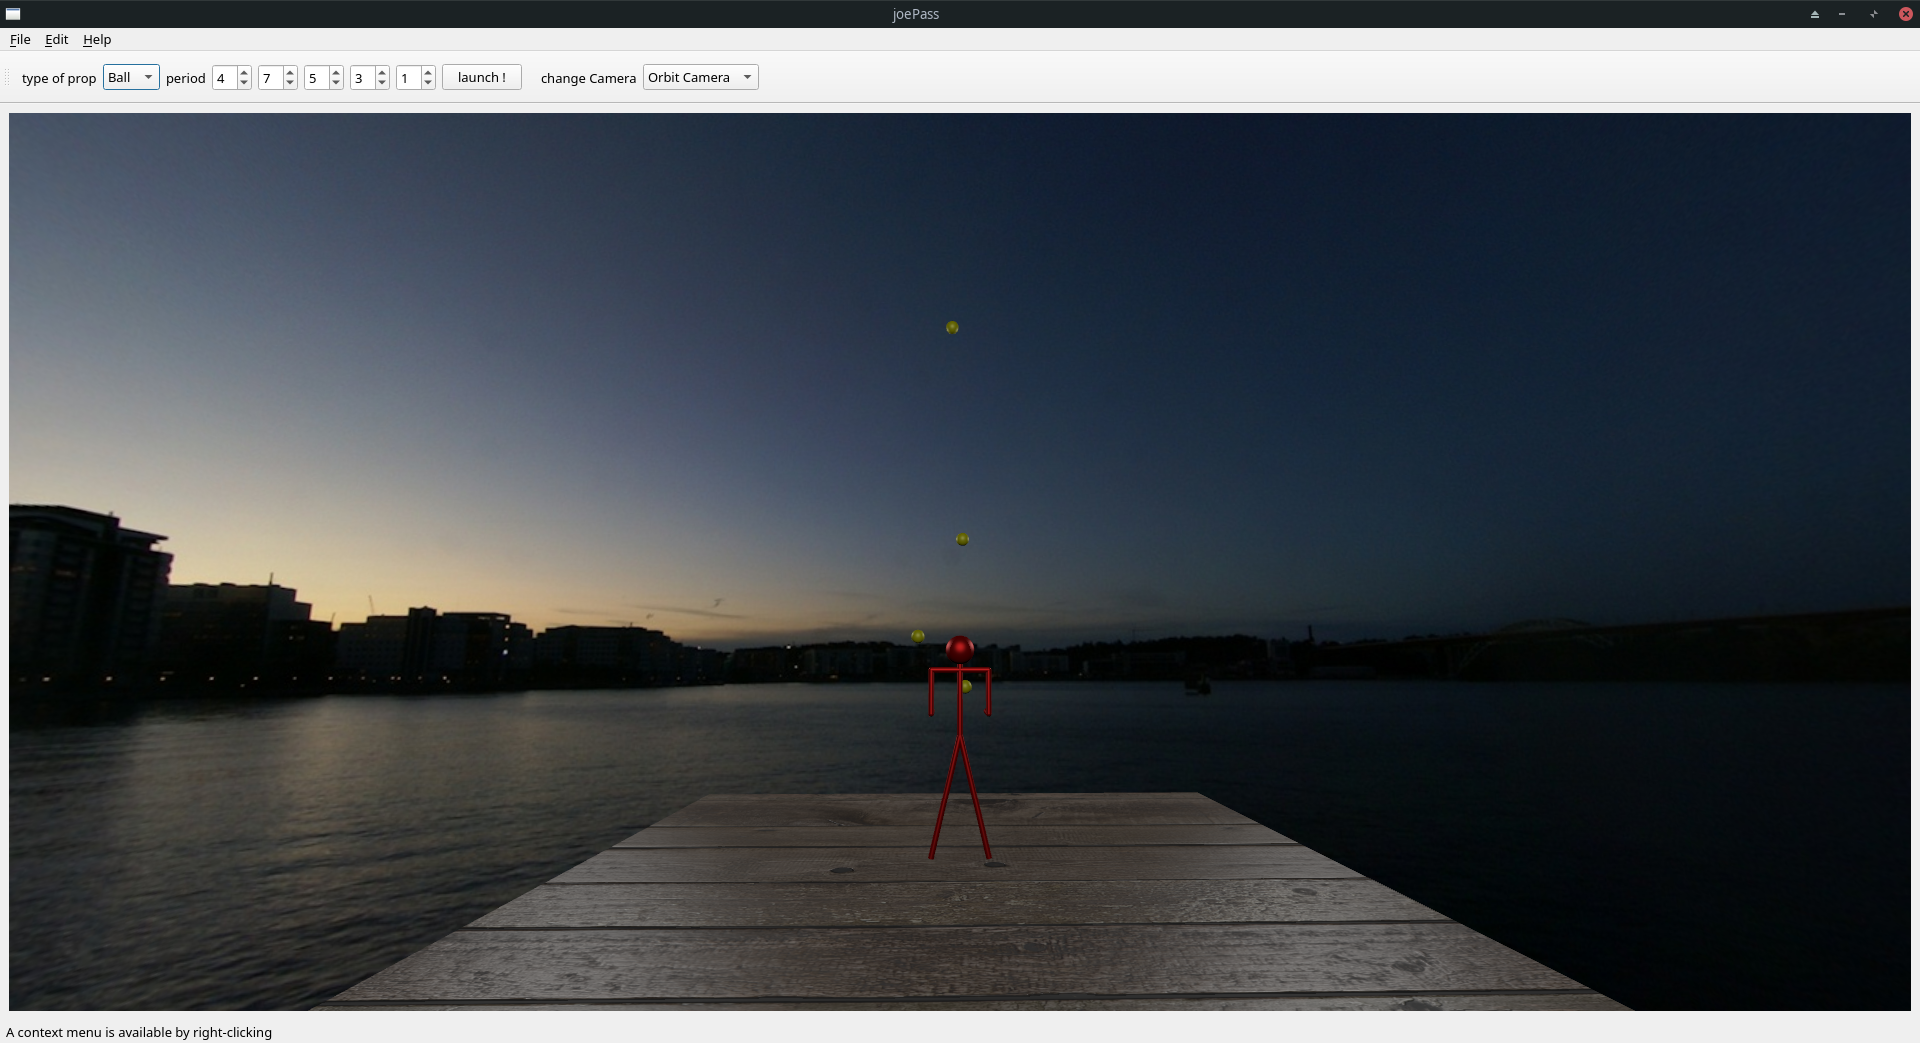
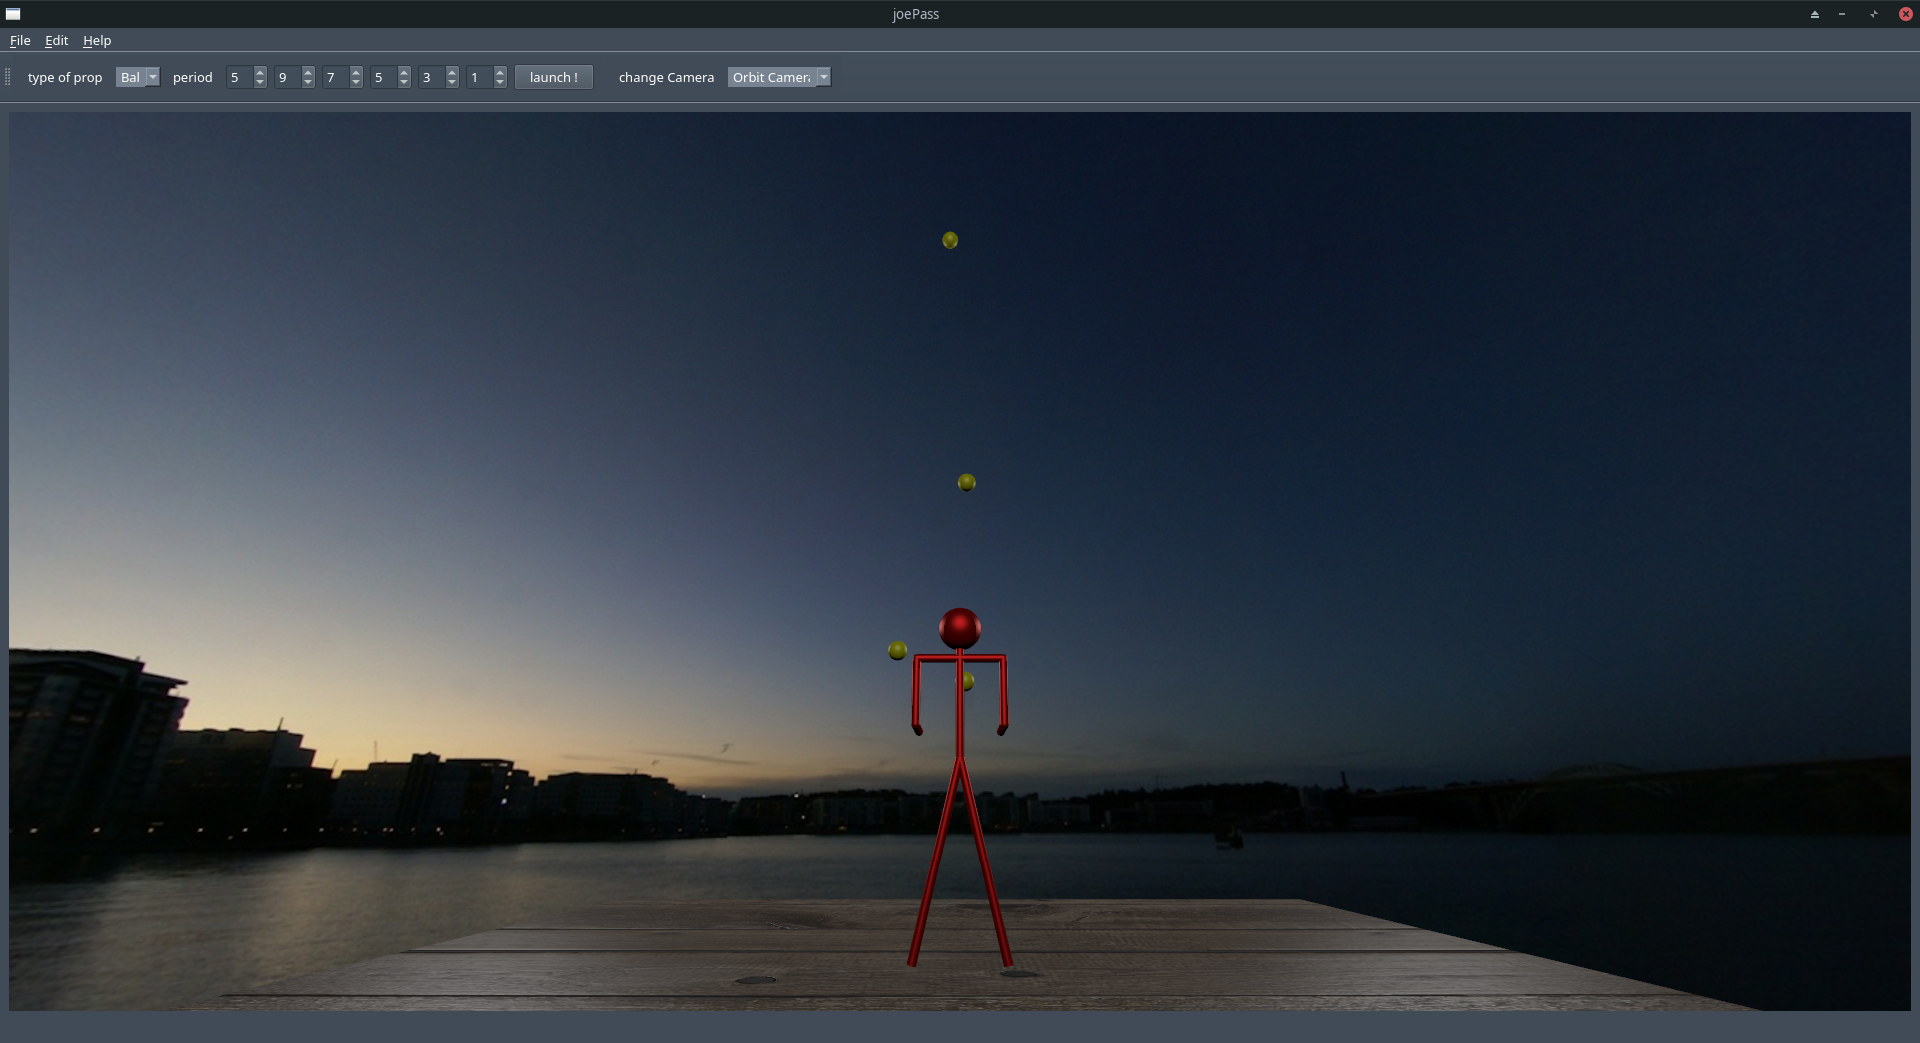
set pbr for all objects and add stylesheet

diff --git a/src/jugglingring.cpp b/src/jugglingring.cpp
@@ -20,41 +20,23 @@
 
 JugglingRing::JugglingRing(QEntity *aRootEntity,
                            QTorusMesh *torusMesh,
-                           QEffect *aEffect,
                            QColor aColor)
-  :ringMaterial(new QMaterial()),
-    diffuseColorParameter(new QParameter()),
-    shininessParameter(new QParameter()),
+  : ringMetalRoughMaterial(new QMetalRoughMaterial()),
     ringTransform(new Qt3DCore::QTransform()),
     color(aColor)
 
 {
   ringTransform->setScale3D(QVector3D(RING_SCALE_X, RING_SCALE_Y, RING_SCALE_Z));
 
-  diffuseColorParameter->setName(QLatin1String(DIFFUSE_COLOR));
-  shininessParameter->setName(QLatin1String(SHININESS));
-  ringMaterial->addParameter(diffuseColorParameter);
-  diffuseColorParameter->setValue(QVariant::fromValue(color));
-  ringMaterial->addParameter(shininessParameter);
-  shininessParameter->setValue(QVariant::fromValue(RING_SHININESS));
-  ringMaterial->setEffect(aEffect);
+  ringMetalRoughMaterial->setBaseColor(color);
+  ringMetalRoughMaterial->setMetalness(RING_METALNESS);
+  ringMetalRoughMaterial->setRoughness(RING_ROUGHNESS);
+
 
   QEntity::setParent(aRootEntity);
   addComponent(torusMesh);
   addComponent(ringTransform);
-  addComponent(ringMaterial);
+  addComponent(ringMetalRoughMaterial);
   setEnabled(enabled);
-
-  //animation test
-//  QAnimationClip animClip;
-//  QAnimationClipData clipData;
-//  QChannelMapper channelMapper;
-//  QChannelMapping channelMapping;
-
-//  QClipAnimator clipAnimator;
-//  clipAnimator.setClip(&animClip);
-//  animClip.setClipData(clipData);
-//  addComponent(&clipAnimator);
-
 
 }

diff --git a/src/pirouette.cpp b/src/pirouette.cpp
@@ -19,29 +19,22 @@
 
 Pirouette::Pirouette(QEntity *aRootEntity,
                      QMesh *aPirouetteMesh,
-                     QEffect *aEffect,
                      QColor aColor)
-  :pirouetteMaterial(new QMaterial()),
-    diffuseColorParameter(new QParameter()),
-    shininessParameter(new QParameter()),
+  : clubMetalRoughMaterial(new QMetalRoughMaterial()),
     pirouetteTransform(new Qt3DCore::QTransform()),
     color(aColor)
 {
   pirouetteTransform->setScale(CLUB_SCALE);
 
-  diffuseColorParameter->setName(QLatin1String(DIFFUSE_COLOR));
-  shininessParameter->setName(QLatin1String(SHININESS));
-  pirouetteMaterial->addParameter(diffuseColorParameter);
-  diffuseColorParameter->setValue(QVariant::fromValue(color));
-  pirouetteMaterial->addParameter(shininessParameter);
-  shininessParameter->setValue(QVariant::fromValue(CLUB_SHININESS));
-  pirouetteMaterial->setEffect(aEffect);
+  clubMetalRoughMaterial->setBaseColor(color);
+  clubMetalRoughMaterial->setMetalness(BALL_METALNESS);
+  clubMetalRoughMaterial->setRoughness(BALL_ROUGHNESS);
 
 
   QEntity::setParent(aRootEntity);
   addComponent(pirouetteTransform);
   addComponent(aPirouetteMesh);
-  addComponent(pirouetteMaterial);
+  addComponent(clubMetalRoughMaterial);
   setEnabled(enabled);
 }
 

diff --git a/src/my3dwindow.cpp b/src/my3dwindow.cpp
@@ -69,8 +69,8 @@ void My3DWindow::createGround()
 void My3DWindow::setGlobalObject()
 {
   // global material
-  material = new QDiffuseSpecularMaterial(rootEntity);
-  effect = material->effect();
+//  material = new QDiffuseSpecularMaterial(rootEntity);
+//  effect = material->effect();
 
   // create one pointlight for 3 sources
   pointLight->setColor(QColor(QRgb(LIGHT_COLOR)));
@@ -158,7 +158,7 @@ void My3DWindow::createLighting()
 
 void My3DWindow::createPirouette(QColor aColor)
 {
-  auto pirouette = new Pirouette(rootEntity, pirouetteMesh, effect, aColor);
+  auto pirouette = new Pirouette(rootEntity, pirouetteMesh, aColor);
   vPirouette.append(pirouette);
 }
 
@@ -170,7 +170,7 @@ void My3DWindow::createBall(QColor aColor)
 
 void My3DWindow::createRing(QColor aColor)
 {
-  auto ring = new JugglingRing(rootEntity, torusMesh, effect, aColor);
+  auto ring = new JugglingRing(rootEntity, torusMesh, aColor);
   vRing.append(ring);
 }
 

diff --git a/src/jugglingball.cpp b/src/jugglingball.cpp
@@ -24,16 +24,16 @@ JugglingBall::JugglingBall(QEntity *aRootEntity,
     sphereTransform(new Qt3DCore::QTransform()),
     color(aColor)
 {
-    sphereTransform->setScale(BALL_SCALE);
+  sphereTransform->setScale(BALL_SCALE);
 
-    ballMetalRoughMaterial->setBaseColor(color);
-    ballMetalRoughMaterial->setMetalness(BALL_METALNESS);
-    ballMetalRoughMaterial->setRoughness(BALL_ROUGHNESS);
+  ballMetalRoughMaterial->setBaseColor(color);
+  ballMetalRoughMaterial->setMetalness(BALL_METALNESS);
+  ballMetalRoughMaterial->setRoughness(BALL_ROUGHNESS);
 
-    QEntity::setParent(aRootEntity);
-    addComponent(aSphereMesh);
-    addComponent(ballMetalRoughMaterial);
-    addComponent(sphereTransform);
+  QEntity::setParent(aRootEntity);
+  addComponent(aSphereMesh);
+  addComponent(ballMetalRoughMaterial);
+  addComponent(sphereTransform);
 
 }
 

diff --git a/src/jugglingring.h b/src/jugglingring.h
@@ -37,13 +37,14 @@ class JugglingRing: public QEntity
 public:
   JugglingRing(QEntity *aRootEntity,
                QTorusMesh *torusMesh,
-               QEffect *aEffect,
+//               QEffect *aEffect,
                QColor aColor);
 
 private:
-  QMaterial *ringMaterial;
-  QParameter *diffuseColorParameter;
-  QParameter *shininessParameter;
+//  QMaterial *ringMaterial;
+//  QParameter *diffuseColorParameter;
+//  QParameter *shininessParameter;
+  QMetalRoughMaterial *ringMetalRoughMaterial;
   Qt3DCore::QTransform *ringTransform;
 
   QColor color;

diff --git a/src/main.cpp b/src/main.cpp
@@ -38,6 +38,12 @@ int main(int argc, char *argv[])
   parser.addPositionalArgument("file", "The file to open.");
   parser.process(app);
 
+  QFile file(":/qss/res/qss/MyStyleSheet.qss");
+      file.open(QFile::ReadOnly);
+      QString styleSheet = QString::fromLatin1(file.readAll());
+
+      app.setStyleSheet(styleSheet);
+
   MyMainWindow mainWin;
 //  if (!parser.positionalArguments().isEmpty())
 //      mainWin.loadFile(parser.positionalArguments().first());

diff --git a/src/pirouette.h b/src/pirouette.h
@@ -34,15 +34,13 @@ class Pirouette: public QEntity
 public:
   Pirouette(QEntity *aRootEntity,
             QMesh *aPirouetteMesh,
-            QEffect *aEffect,
             QColor aColor);
 
   void setPosition(QVector3D aPosition);
 
 private:
-  QMaterial *pirouetteMaterial;
-  QParameter *diffuseColorParameter;
-  QParameter *shininessParameter;
+  QMetalRoughMaterial *clubMetalRoughMaterial;
+
   Qt3DCore::QTransform *pirouetteTransform;
 
   QColor color;

diff --git a/src/my3dwindow.h b/src/my3dwindow.h
@@ -80,12 +80,6 @@ private:
   QOrbitCameraController *camOController;
   QVector3D positionCamera;
 
-
-  // Global Material, we create one for the whole scene
-  // and pass effect to each 3d object
-  QDiffuseSpecularMaterial *material;
-  QEffect *effect;
-
   // Skybox
   QSkyboxEntity *skybox;
 

diff --git a/src/qjoepass.h b/src/qjoepass.h
@@ -78,7 +78,7 @@
 #define RING_SCALE_X 0.8
 #define RING_SCALE_Y 0.8
 #define RING_SCALE_Z 0.1
-#define RING_SHININESS 50
+//#define RING_SHININESS 50
 #define RING_METALNESS 0.2
 #define RING_ROUGHNESS 0.5
 // Club
